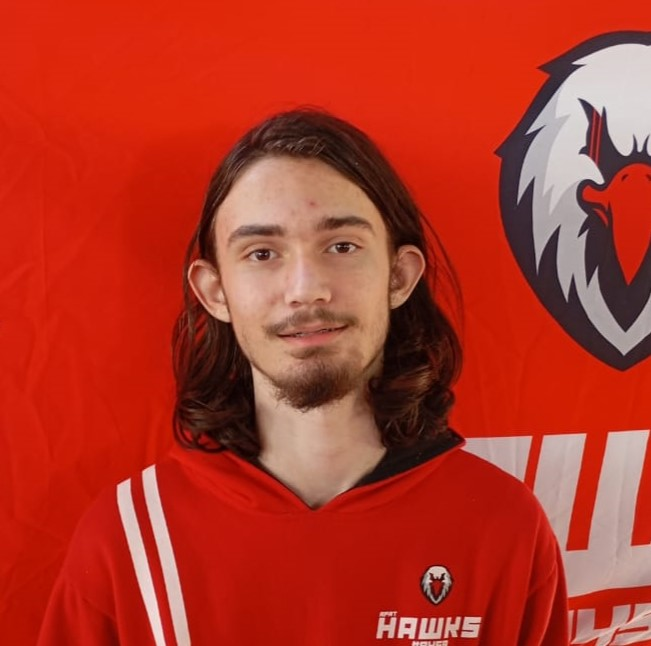
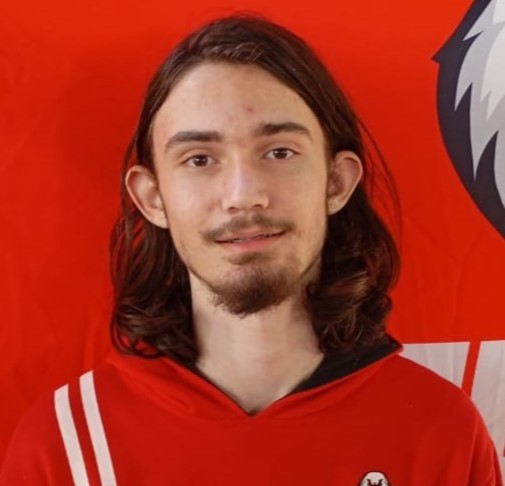
att

diff --git a/geracao2024-25.html b/geracao2024-25.html
@@ -112,7 +112,7 @@
                 </div>
 
                 <div class="team-member">
-                    <img src="assets/membros/2024-25/Geovanna Motta.png" alt="Geovanna Motta" />
+                    <img src="assets/membros/2024-25/Geovanna Motta.jpeg" alt="Geovanna Motta" />
                     <h3>Geovanna Motta</h3>
                     <p class="cargo">Projetos Sociais</p>
                 </div>
@@ -154,15 +154,33 @@
             <h4>Mentores</h4>
             <div class="team-grid">
                 <div class="team-member">
-                    <img src="assets/membros/2023-24/André Ferrato.jpg" alt="André Ferrato" />
+                    <img src="assets/membros/2024-25/André Ferrato.jpg" alt="André Ferrato" />
                     <h3>André Ferrato</h3>
                     <p class="cargo">Mentor na área Técnica (Mecânica)</p>
                 </div>
 
                 <div class="team-member">
-                    <img src="assets/membros/2023-24/Lucas Godoi.jpeg" alt="Lucas Godoi" />
+                    <img src="assets/membros/2024-25/Lucas Godoi.jpeg" alt="Lucas Godoi" />
                     <h3>Lucas Godoi</h3>
                     <p class="cargo">Mentor na área Técnica (Elétrica e Programação)</p>
+                </div>
+
+                <div class="team-member">
+                    <img src="assets/membros/2024-25/Murilo.jpeg" alt="Murilo" />
+                    <h3>Murilo</h3>
+                    <p class="cargo">Mentor na área Técnica (Apoio Técnico)</p>
+                </div>
+
+                <div class="team-member">
+                    <img src="assets/membros/2024-25/Otavio.jpeg" alt="Otavio" />
+                    <h3>Otavio</h3>
+                    <p class="cargo">Mentor na área Técnica (Apoio Técnico)</p>
+                </div>
+
+                <div class="team-member">
+                    <img src="assets/membros/2024-25/Felipe Calixto.jpeg" alt="Felipe Calixto" />
+                    <h3>Felipe Calixto</h3>
+                    <p class="cargo">Mentor na área Técnica (Apoio Técnico)</p>
                 </div>
             </div>
 
@@ -188,6 +206,12 @@
                 </div>
 
                 <div class="team-member">
+                    <img src="assets/membros/2024-25/Samuel.jpeg" alt="Samuel" />
+                    <h3>Samuel</h3>
+                    <p class="cargo">Mecânica</p>
+                </div>
+
+                <div class="team-member">
                     <img src="assets/membros/2024-25/Maria Eduarda.jpg" alt="Maria Eduarda" />
                     <h3>Maria Eduarda</h3>
                     <p class="cargo">Elétrica</p>
@@ -202,12 +226,6 @@
                 <div class="team-member">
                     <img src="assets/membros/2024-25/Lara.jpeg" alt="Lara" />
                     <h3>Lara</h3>
-                    <p class="cargo">Mecânica</p>
-                </div>
-
-                <div class="team-member">
-                    <img src="assets/membros/2024-25/Samuel.jpeg" alt="Samuel" />
-                    <h3>Samuel</h3>
                     <p class="cargo">Mecânica</p>
                 </div>
 

diff --git a/patrocinadores.html b/patrocinadores.html
@@ -115,7 +115,7 @@
                             A Rockwell Automation, é uma empresa global de automação industrial, 
                             que oferece produtos como PLCs, sistemas DCS, 
                             softwares de automação e sensores, entre muitos outros, da qual financiou 
-                            boa parte de nossa inscrição para a competição em Houston,
+                            boa parte de nossa inscrição para a competição em Houston.
                         </p>
                     </div>
                 </div>
@@ -201,7 +201,7 @@
                     <div class="sponsor-info">
                         <h3>COTUBA</h3>
                         <p>
-                            A Cotuba é uma empresa de refrigerantes. A empresa se preocupa 
+                            A Cotuba é uma empresa de refrigerantes de São José do Rio Preto. A empresa se preocupa 
                             com a preservação do meio ambiente. Participa de plataformas que 
                             utilizam energia proveniente de fontes renováveis. Nós da Hawks 
                             possuímos valores muito parecidos, pois acreditamos que a tecnologia 
@@ -226,6 +226,25 @@
                             Buscando tornar São José do Rio Preto e Região um pólo de tecnologia. 
                             A entidade tem como missão: Promover a evolução da tecnologia, dos negócios 
                             e da sociedade.
+                        </p>
+                    </div>
+                </div>
+
+
+                <div class="sponsor-card" data-aos="fade-up" data-aos-delay="200">
+                    <div class="sponsor-logo">
+                        <img src="assets/sponsors/wago-logo.png" alt="Logo Wago">
+                    </div>
+
+                    <div class="sponsor-info">
+                        <h3>WAGO</h3>
+                        <p>
+                            A WAGO é uma empresa alemã com 74 anos de atuação, líder em conectores 
+                            e soluções de conexão elétrica e industrial. Seus produtos se destacam 
+                            pela inovação, qualidade e praticidade, como os conectores de mola, que 
+                            oferecem conexões rápidas, seguras e sem necessidade de ferramentas. A 
+                            empresa contribuiu com a equipe fornecendo materiais usados diretamente 
+                            na elétrica do robô, essenciais para garantir conexões confiáveis e eficientes.
                         </p>
                     </div>
                 </div>
@@ -464,7 +483,7 @@
                     <div class="sponsor-info">
                         <h3>IOTECH</h3>
                         <p>
-                            breve descrição
+                           Em breve descrição.
                         </p>
                     </div>
                 </div>

diff --git a/hawks.html b/hawks.html
@@ -59,8 +59,14 @@
                 <h1 data-aos="fade-up">Quem somos?</h1>
 
                 <div class="team-content">
-                    <div class="team-image" data-aos="fade-right" data-aos-delay="100">
-                        <img src="assets/equipe.JPG" alt="Equipe Hawks" class="team-photo">
+                    <div class="images">
+                        <div class="flag-image" data-aos="fade-right" data-aos-delay="100">
+                            <img src="assets/flag-sjrp.png" alt="Equipe Hawks" class="flag-photo">
+                        </div>
+
+                        <div class="team-image" data-aos="fade-right" data-aos-delay="100">
+                            <img src="assets/equipe.JPG" alt="Equipe Hawks" class="team-photo">
+                        </div>
                     </div>
 
                     <div class="team-description" data-aos="fade-left" data-aos-delay="200">
@@ -74,6 +80,17 @@
                             dedicados e apoiadores que acreditam no poder da educação STEM.
                         </p>
 
+
+                        <h3>Cores adotadas pela equipe</h3>
+
+                        <p>
+                            As cores adotadas por nossa equipe é uma homenagem inspirada nas cores da bandeira da nossa 
+                            cidade: branco, vermelho e preto. Assim como o nosso mascote Hawk também.
+                        </p>
+
+
+                        <h3>Nossa missão</h3>
+
                         <p>
                             Nossa missão é inspirar jovens a se tornarem líderes em ciência e tecnologia, desenvolvendo
                             habilidades técnicas e soft skills através da robótica competitiva. Trabalhamos com valores
@@ -85,6 +102,7 @@
                             projetos sociais e educacionais, levando conhecimento e inspiração para nossa comunidade.
                         </p>
                     </div>
+
                 </div>
             </div>
         </section>
@@ -158,6 +176,10 @@
 
                 <div class="gallery-item" data-aos="fade-up" data-aos-delay="600">
                     <img src="assets/galeria/foto16.JPG" alt="Hawks em ação" class="zoomable">
+                </div>
+
+                <div class="gallery-item" data-aos="fade-up" data-aos-delay="600">
+                    <img src="assets/galeria/foto17.jpeg" alt="Hawks em ação" class="zoomable">
                 </div>
             </div>
         </div>

diff --git a/css/styles.css b/css/styles.css
@@ -585,17 +585,21 @@ section {
 }
 
 .team-content {
-    display: grid;
-    grid-template-columns: 1fr 1fr;
     gap: 4rem;
     align-items: center;
     margin-top: 2rem;
     max-width: 1200px;
     margin: 0 auto;
-    padding: 0 20px;
+    padding: 20px 20px;
+}
+
+.images {
+    display: grid;
+    grid-template-columns: 0.8fr 1fr;
 }
 
 .team-image {
+    margin: 1rem;
     position: relative;
     overflow: hidden;
     border-radius: 10px;
@@ -613,6 +617,25 @@ section {
     transform: scale(1.05);
 }
 
+.flag-image {
+    margin: 1rem;
+    position: relative;
+    overflow: hidden;
+    border-radius: 10px;
+    box-shadow: 0 4px 15px rgba(0, 0, 0, 0.1);
+}
+
+.flag-photo {
+    width: 100%;
+    height: auto;
+    display: block;
+    transition: transform 0.3s ease;
+}
+
+.flag-image:hover .flag-photo {
+    transform: scale(1.05);
+}
+
 .team-description {
     padding: 1rem;
 }
@@ -621,6 +644,12 @@ section {
     color: var(--primary-red);
     margin-bottom: 1.5rem;
     font-size: 2rem;
+}
+
+.team-description h3 {
+    color: var(--primary-red);
+    margin-bottom: 1rem;
+    font-size: 1.2rem;
 }
 
 .team-description p {

diff --git a/index.html b/index.html
@@ -136,6 +136,9 @@
                             <img src="assets/sponsors/apeti-logo.png" alt="Logo apeti">
                         </div>
 
+                        <div class="swiper-slide">
+                            <img src="assets/sponsors/wago-logo.png" alt="Logo Wago">
+                        </div>
 
                         <div class="swiper-slide">
                             <img src="assets/sponsors/centralDoAco-logo.png" alt="Logo central do aço">

diff --git a/css/responsive.css b/css/responsive.css
@@ -108,7 +108,17 @@
         gap: 2rem;
     }
 
+    .images {
+        grid-template-columns: repeat(auto-fit, minmax(250px, 1fr));
+        gap: 1rem; 
+    }
+
     .team-image {
+        max-width: 600px;
+        margin: 0 auto;
+    }
+
+    .flag-image {
         max-width: 600px;
         margin: 0 auto;
     }
